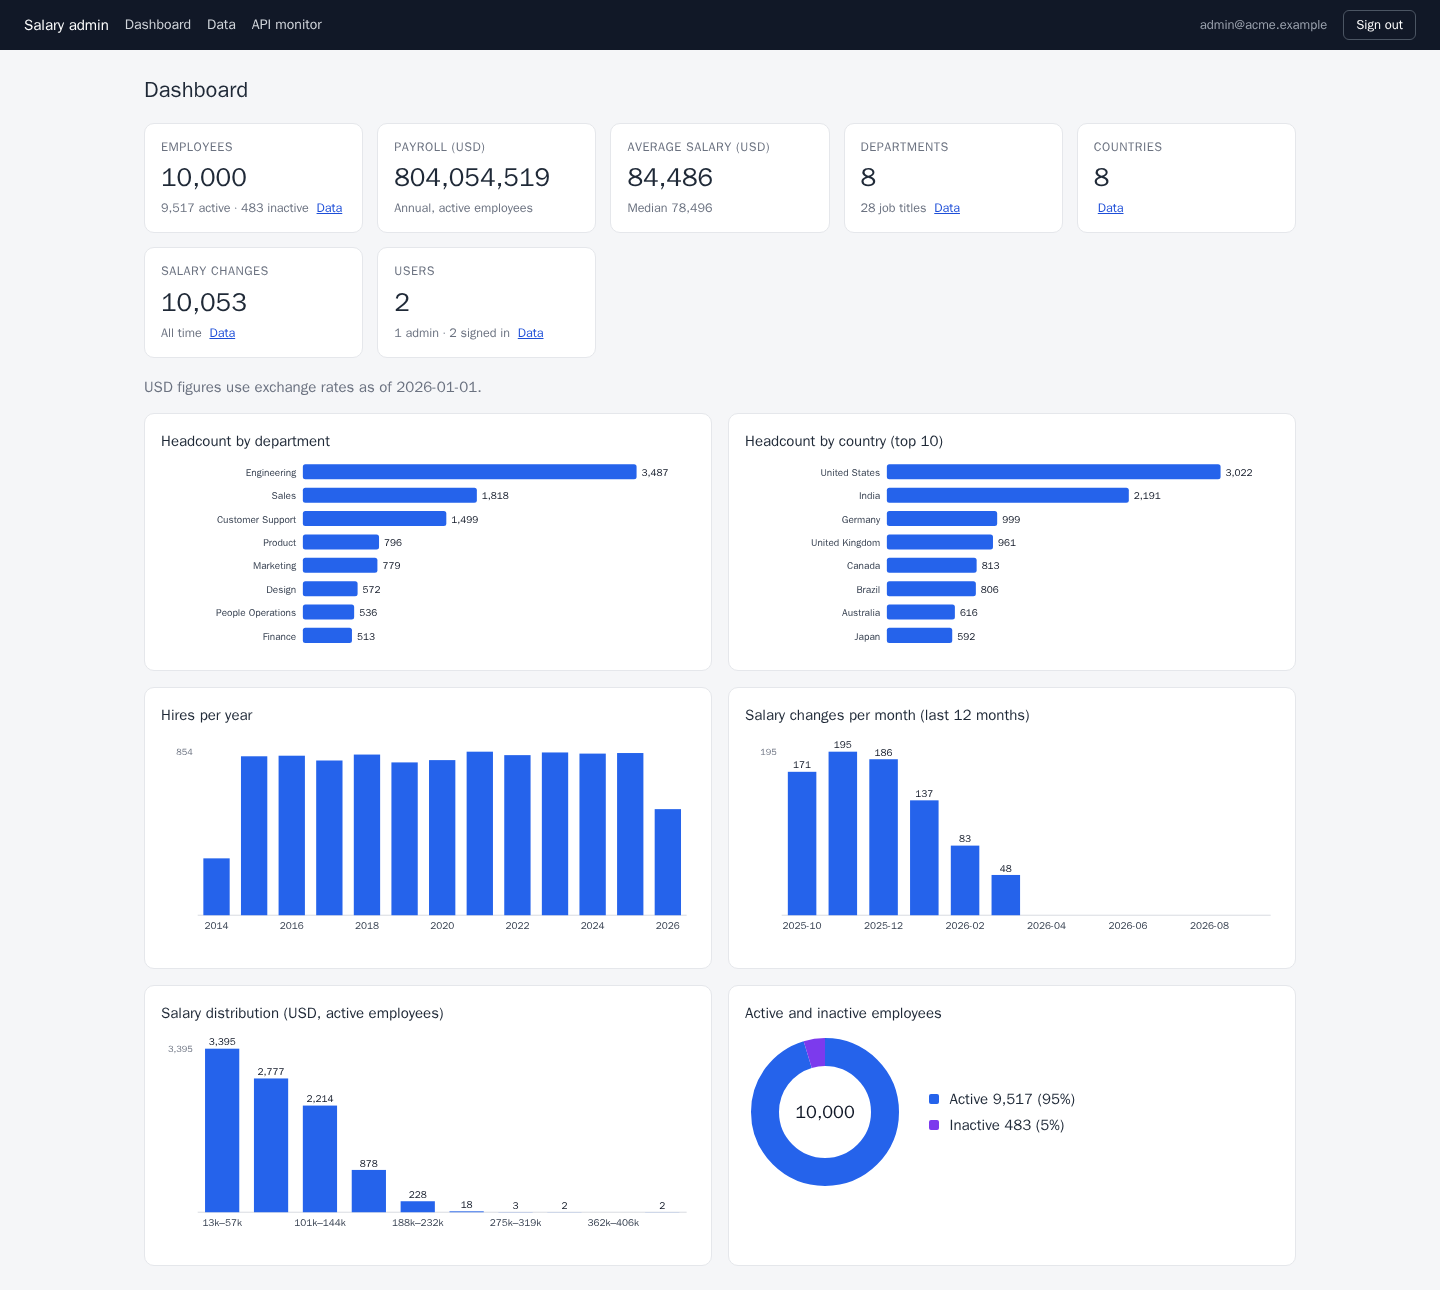
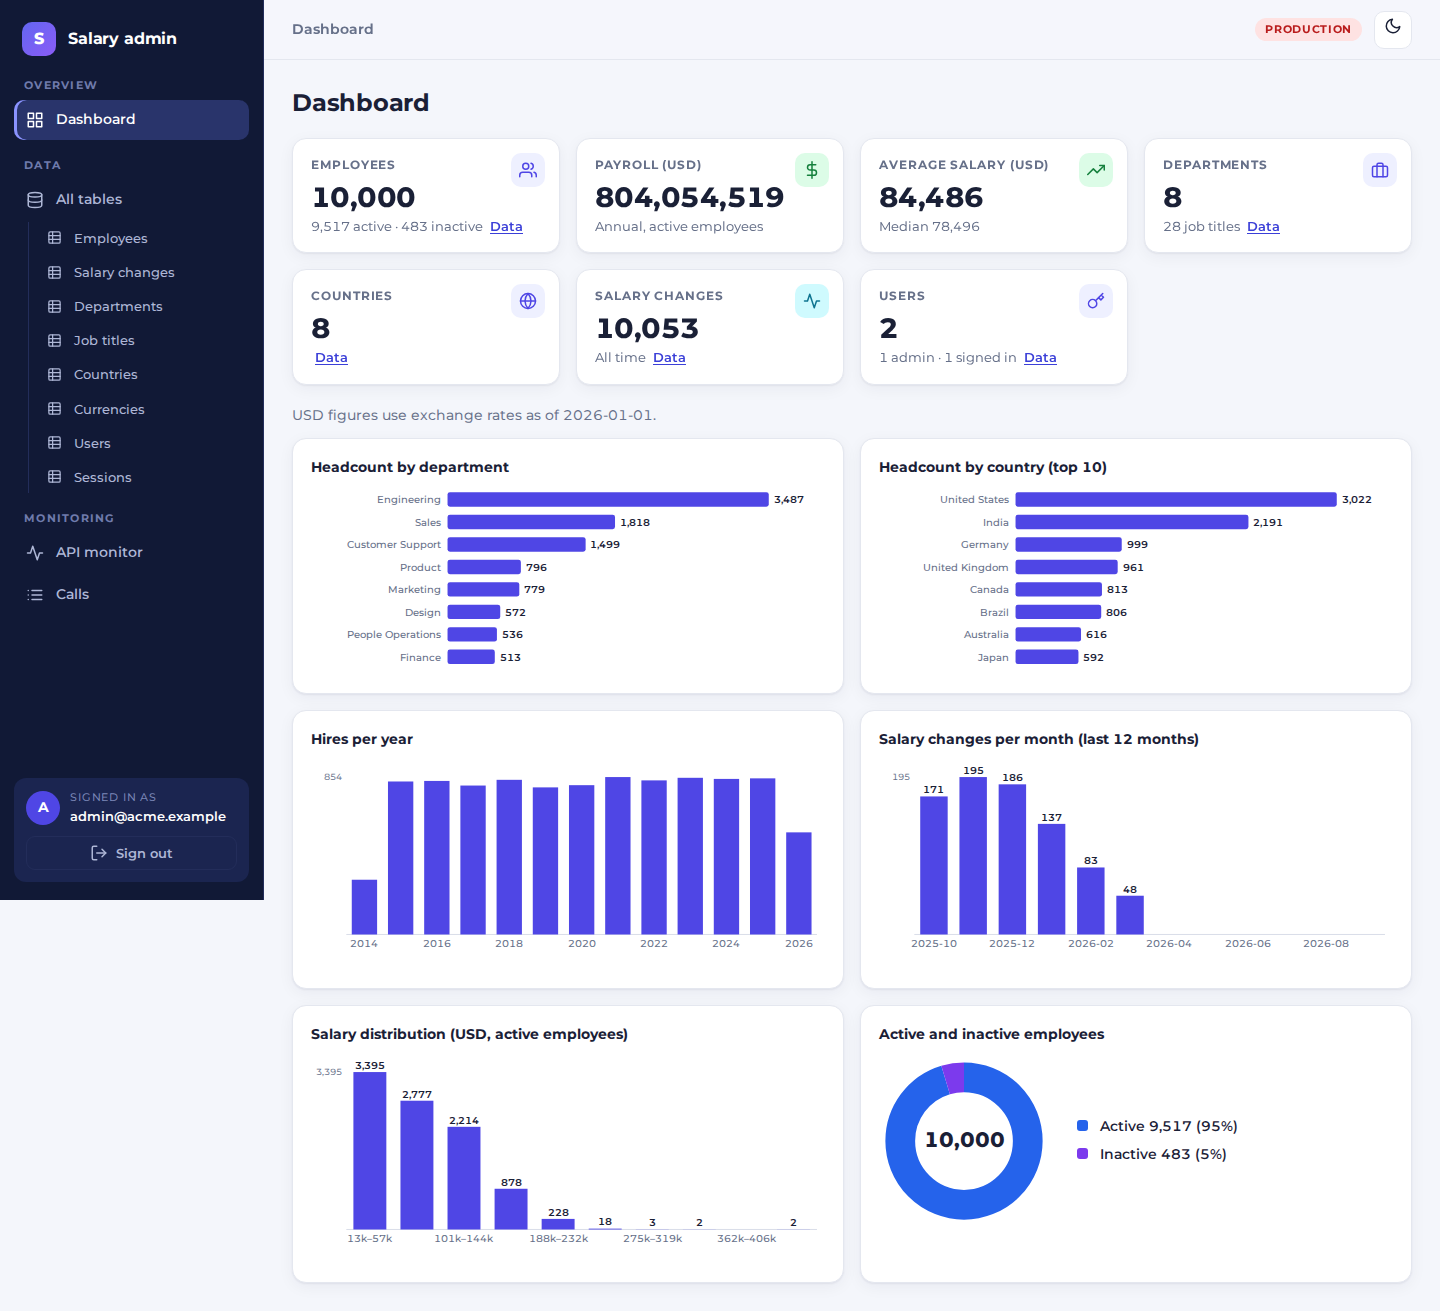
docs: describe the admin panel's new look, and update its screenshots
A "Look and feel" section in admin.md: the sidebar, the two themes and when each is
picked, the drawer on narrow screens, self-hosted Montserrat, and the versioned
stylesheet and script. The four existing screenshots are refreshed (the KPI icons and
the new shell are now in them) and two are added, dark and mobile.

diff --git a/docs/admin.md b/docs/admin.md
@@ -9,6 +9,21 @@ build and nothing to keep in step with the React app.
 
 ![The dashboard](screenshots/admin-dashboard.png)
 
+## Look and feel
+
+A fixed sidebar grouped into Overview, Data (every table listed) and Monitoring, a
+light and a dark theme (a click remembers the choice; with nothing saved it follows
+the system, and the right one is applied before the page is drawn, so it never
+flashes the other), and a drawer instead of the sidebar under 960px wide. The whole
+panel is set in **Montserrat**, self-hosted (`public/admin-assets/fonts`, SIL Open
+Font License) so it asks nothing of any other site. The stylesheet and script are one
+file each, their address carrying a version taken from their own content so a deploy
+is never left showing a cached one.
+
+| Dark theme | Small screen |
+|---|---|
+| ![The dashboard in the dark theme](screenshots/admin-dashboard-dark.png) | ![The dashboard on a narrow screen, sidebar closed](screenshots/admin-mobile.png) |
+
 ## Signing in
 
 | | |
